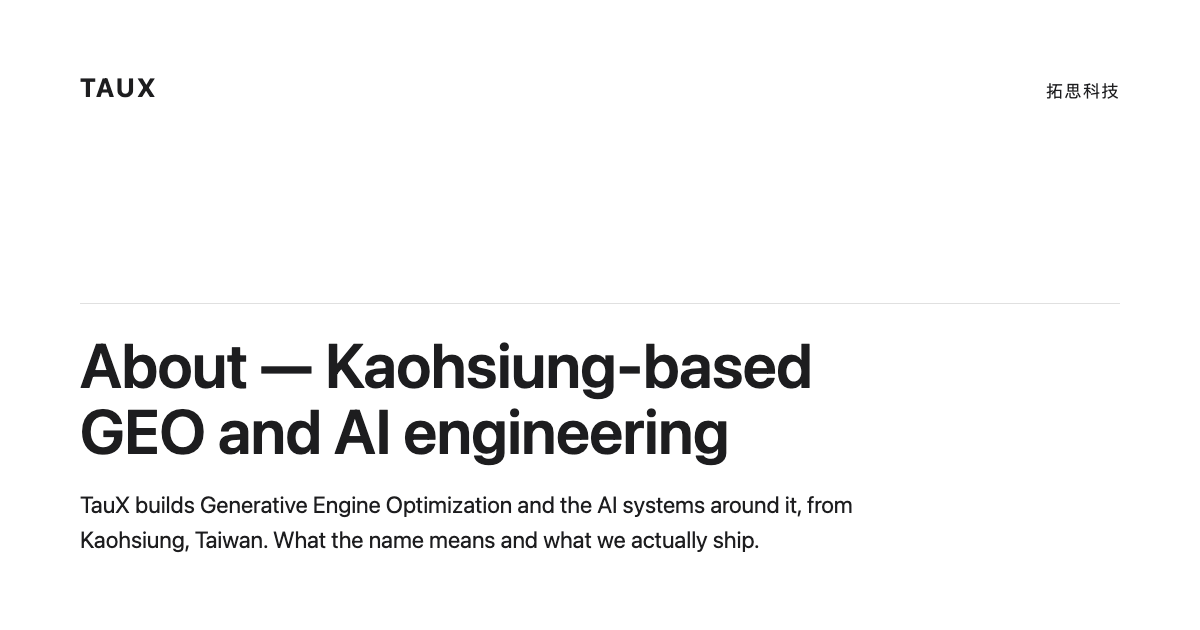
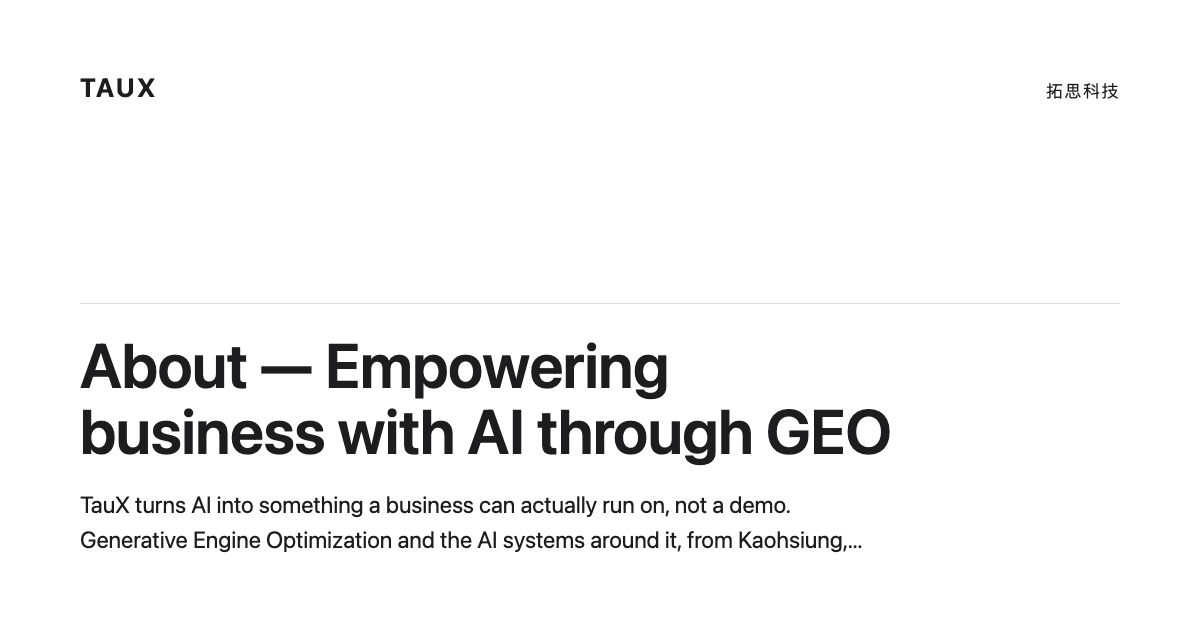
fix: /about 的大標從地名換成主張（三個 locale） (#207)
`Built in Kaohsiung` 換成 `Empowering Business with AI`。

不是首頁那句的複製。首頁的領銜句是 `Empower Your Business with AI`，
兩條路由頂同一個大標會讓 AI 引用時分不出該引哪一頁——這站賣的正是
GEO。所以 about 用動名詞：首頁是承諾，about 是我們在做的事。

⚠ 中文副標從「用科技創造未來」換成「我們把 AI 變成企業真正的戰力」，
而這一換把高雄從 hero 拿掉了。使用者明確選擇不在這裡提地點。地緣
沒有消失：內文、description、Organization 的 address 都還在。

⚠ 不寫死斷行，這一條和首頁相反。首頁寫死是因為那行夠長，各機器量
出來的寬度不同，自然折行會折在不同位置。這行短，geometry 走的八個
寬度都在一行內。

eyebrow 從 `Who We Are` 換成 `Who Builds This`：大標現在講的是做什麼，
所以「這是關於我們」這個訊號得由 eyebrow 單獨扛，指向做事的人比指向
身分更具體。

title 三個一起改，而 GEO 留著。site.toml 首頁 title 的註解寫著「主張
先行、關鍵詞跟上」，理由是 GEO 是本站排名最高的詞，為了口號丟掉它是
拿量得到的流量換一句話。這裡照同一條規矩：主張進來，GEO 沒有出去。

Claude-Session: https://claude.ai/code/session_016y1tt3nWWVY3J5FyRqaa4P

Changed region(s): [[0.0617, 0.5429, 0.74, 0.754], [0.0617, 0.8444, 0.7092, 0.8746], [0.0925, 0.7841, 0.7092, 0.8143]]

diff --git a/templates/about.html b/templates/about.html
@@ -38,10 +38,15 @@
 <section class="band relative overflow-hidden bg-surface">
     <div class="relative z-10 max-w-6xl mx-auto px-6 w-full">
         <!-- Hero -->
-        <span class="tag mb-4 inline-block">Who We Are</span>
+        <span class="tag mb-4 inline-block">Who Builds This</span>
         <h1 class="mb-6">
-            <span class="display-lead">Built in Kaohsiung</span>
-            <span class="display-sub">用科技創造未來</span>
+            <!-- NO WRITTEN BREAK, unlike the home page's h1.
+                 The home line forces one because it is long enough that the
+                 measured width differs by machine and an unforced break lands
+                 somewhere different on each. This line is shorter and fits on
+                 one at every width the geometry gate walks. -->
+            <span class="display-lead">Empowering Business with AI</span>
+            <span class="display-sub">我們把 AI 變成企業真正的戰力</span>
         </h1>
         <p class="text-xl max-w-[42ch] leading-relaxed mb-6">
             TauX 拓思科技專注於 GEO (生成式引擎優化) 與 AI 智能解決方案。我們結合高雄在地的深厚根基與國際級的技術視野，協助企業在 AI 時代搶佔先機。

diff --git a/templates/zh-Hans-CN/about.html b/templates/zh-Hans-CN/about.html
@@ -38,10 +38,15 @@
 <section class="band relative overflow-hidden bg-surface">
     <div class="relative z-10 max-w-6xl mx-auto px-6 w-full">
         <!-- Hero -->
-        <span class="tag mb-4 inline-block">Who We Are</span>
+        <span class="tag mb-4 inline-block">Who Builds This</span>
         <h1 class="mb-6">
-            <span class="display-lead">Built in Kaohsiung</span>
-            <span class="display-sub">用科技创造未来</span>
+            <!-- NO WRITTEN BREAK, unlike the home page's h1.
+                 The home line forces one because it is long enough that the
+                 measured width differs by machine and an unforced break lands
+                 somewhere different on each. This line is shorter and fits on
+                 one at every width the geometry gate walks. -->
+            <span class="display-lead">Empowering Business with AI</span>
+            <span class="display-sub">我们把 AI 变成企业真正的战力</span>
         </h1>
         <p class="text-xl max-w-[42ch] leading-relaxed mb-6">
             TauX 拓思科技专注于 GEO (生成式引擎优化) 与 AI 智能解决方案。我们结合高雄在地的深厚根基与国际级的技术视野，协助企业在 AI 时代抢占先机。

diff --git a/templates/en-US/about.html b/templates/en-US/about.html
@@ -38,9 +38,9 @@
 <section class="band relative overflow-hidden bg-surface">
     <div class="relative z-10 max-w-6xl mx-auto px-6 w-full">
         <!-- Hero -->
-        <span class="tag mb-4 inline-block">Who We Are</span>
+        <span class="tag mb-4 inline-block">Who Builds This</span>
         <h1 class="mb-6">
-            <span class="display-lead">Built in Kaohsiung</span>
+            <span class="display-lead">Empowering Business with AI</span>
         </h1>
         <p class="text-xl max-w-[42ch] leading-relaxed mb-6">
             TauX builds GEO — Generative Engine Optimization — and the AI systems around it. We work from Kaohsiung, close to the manufacturers and operators we build for, and we ship to a standard that holds up anywhere.
